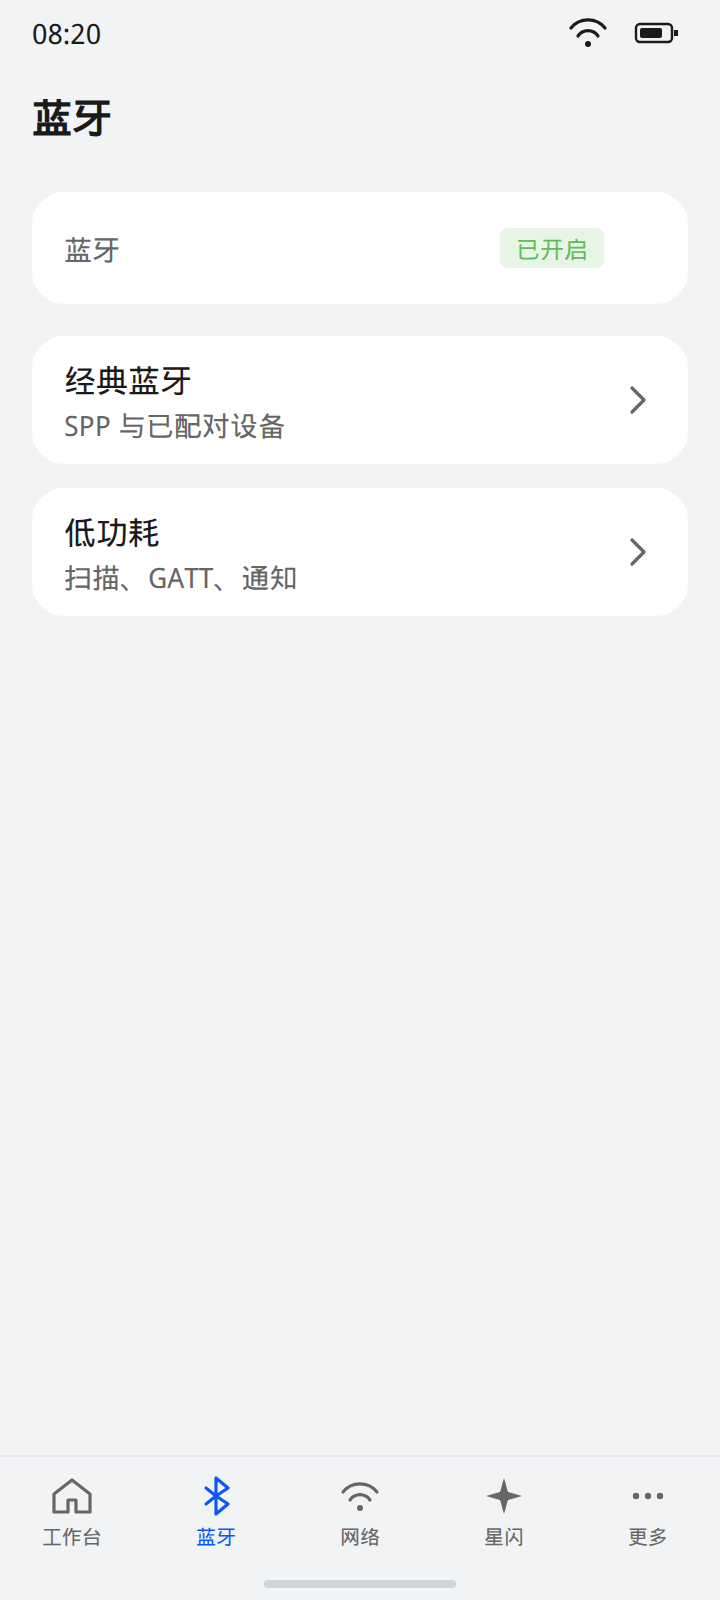
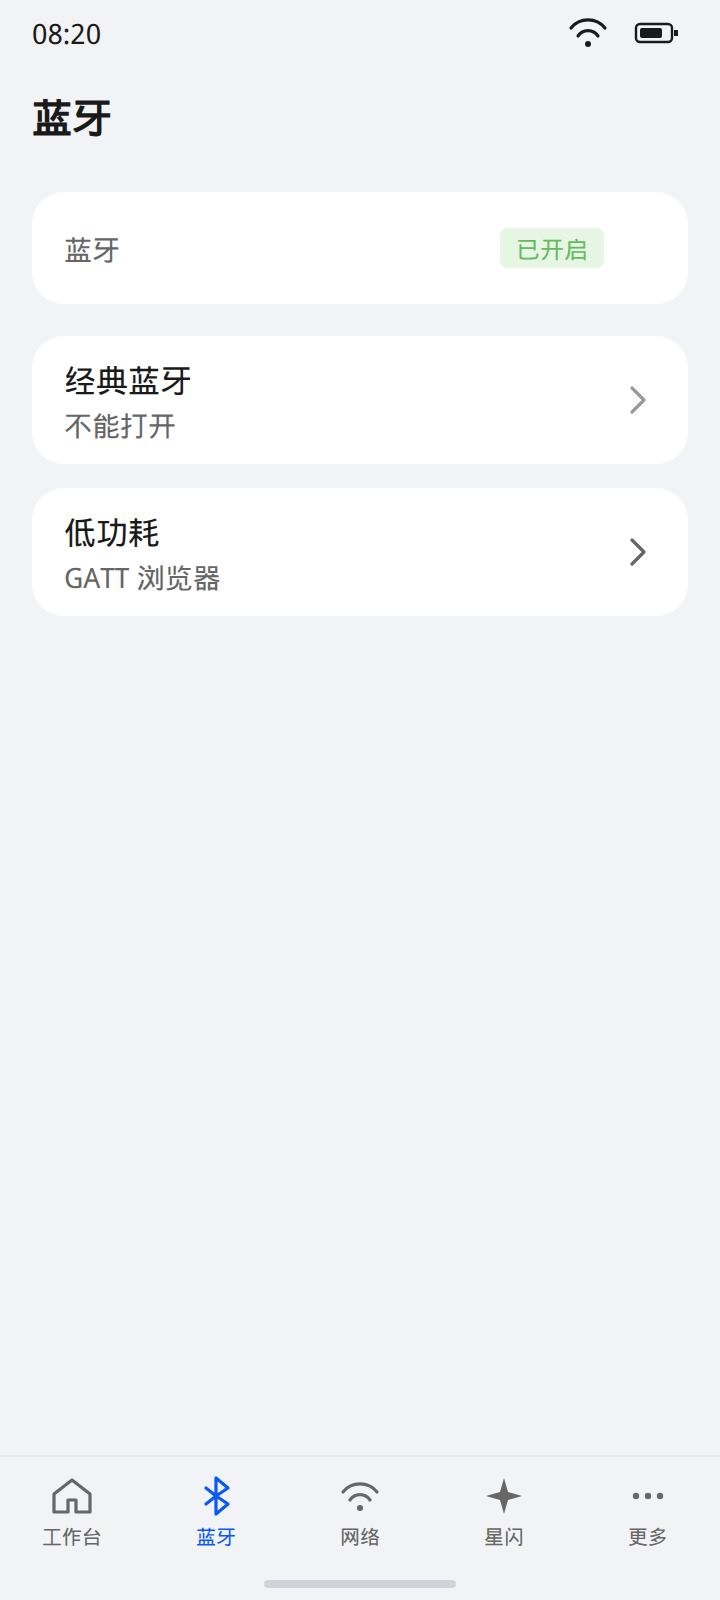
docs: 补工作台方案 A/B 的高保真和 PNG
分组列表和模块宫格都按 PR #26 的颜色与组件画出，并排对照供选择。经典蓝牙次行改为「不能打开」。

Changed region(s): [[0.0917, 0.25, 0.3972, 0.2812], [0.0917, 0.3438, 0.3056, 0.375], [0.3361, 0.3438, 0.4278, 0.375]]

diff --git a/docs/goal/ui/prototypes/README.md b/docs/goal/ui/prototypes/README.md
@@ -19,7 +19,10 @@
 | `phone/workbench-default.svg` | 工作台 | 默认 | `workbench/home.md`。底栏五个目的地来自 `app-shell/information-architecture.md` 与 E4。右上「日志」「命令」。组「最近」，行 64，左图标只用蓝牙、网络、星闪三个符号。不画 M2 三列宫格，不重复三个模块大卡 |
 | `phone/workbench-empty.svg` | 工作台 | 空 | 同上。中部 14「还没有会话」，两个文字按钮仍在 |
 | `phone/workbench-error.svg` | 工作台 | 错误 | 同上。警告一行，不出现空文案 |
-| `phone/bt-overview-default.svg` | 蓝牙总览 | 默认 | `bluetooth/overview.md`。状态胶囊「已开启」，其下经典蓝牙、低功耗两行 |
+| `phone/workbench-a.svg` | 工作台 | 方案 A · 分组列表 | 结构来自 PR #24 `ia/workbench.svg` 的方案 A。状态条、最近会话、模块三行（蓝牙 / 网络 / 星闪）都是列表。颜色、白卡片、标题右侧「日志」「命令」按 PR #26。文案用现有字符串：已开启、已连接、经典蓝牙串口 |
+| `phone/workbench-b.svg` | 工作台 | 方案 B · 模块宫格 | 结构来自同一张线框的方案 B。三个模块是宫格，最近会话仍是列表。PR #26 `workbench/home.md` 写明不采用 M2 这种宫格；这张画出来供和方案 A 对照选择 |
+| `phone/workbench-ab.svg` | 工作台 | A/B 对照 | 上面两张手机稿并排，方便直接选。左侧方案 A，右侧方案 B |
+| `phone/bt-overview-default.svg` | 蓝牙总览 | 默认 | `bluetooth/overview.md`。状态胶囊「已开启」。经典蓝牙次行「不能打开」，因为 `/bluetooth/classic-scan` 在 `main` 尚未注册。低功耗次行用现有文案「GATT 浏览器」 |
 | `phone/bt-overview-off.svg` | 蓝牙总览 | 适配器关 | 同上。胶囊「已关闭」，入口箭头变弱 |
 | `phone/bt-overview-permission.svg` | 蓝牙总览 | 无权限 | `app-shell/permission-gap-wall.md`、M5、G4。中部标题和辅文，底部一颗主按钮，无插画 |
 | `phone/bt-scan-default.svg` | 经典蓝牙扫描 | 搜索成功 | `bluetooth/classic-scan.md`、`app-shell/layout-patterns.md` 扫描列表。M12 白卡片和浅胶囊「连接」，E3 行高 76、圆角 16，E1「已连接 / 可用」，H2 状态标题。已连接行不放「断开」。底部「重新搜索」 |

diff --git a/docs/goal/ui/prototypes/REWORK.md b/docs/goal/ui/prototypes/REWORK.md
@@ -11,6 +11,16 @@
 - 连接：底部半模态。第一行标题和关闭，然后字段，底部一颗主按钮。Wi-Fi 是只读 SSID、密码和「下一步」。星闪只在需要端口时出现「端口」和「连接」。
 - 测速在诊断的「故障」页：一个页标题字号的速率，下面三列时延、下载、上传，再是通过/失败清单。
 
+## 工作台两案
+
+PR #24 的线框把工作台入口留成未选定：方案 A 是分组列表，方案 B 是模块宫格。这两张现在都按本目录的组件画成高保真，并各有 PNG，对照图是 `phone/workbench-ab.svg`。
+
+- 方案 A：状态条、最近会话、模块三行都是列表。
+- 方案 B：蓝牙、网络、星闪三张宫格，下面仍是最近会话。
+- `workbench-default` 仍是 PR #26 正文里的工作台：只有最近会话，不重复底栏上的三个模块，也不用宫格。
+
+选定之前，A/B 和规范页并存在这个目录里。
+
 ## 和上一套稿的差别
 
 PR #28 那套四页签、工具宫格、空态插画、测速刻度弧、深色彩虹日志和日志侧滑，都不在 #26 的组件树里。本分支没有沿用那些画面，也没有改 #28 的分支。
